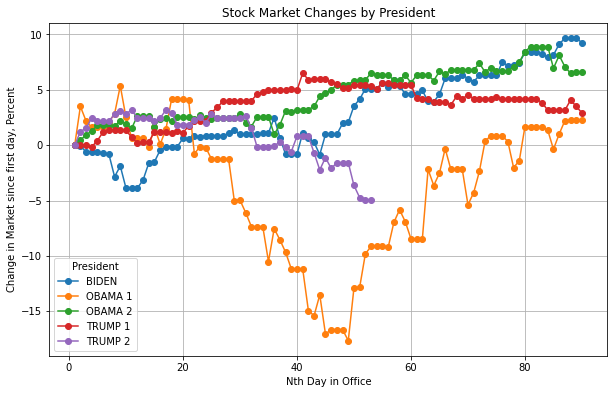
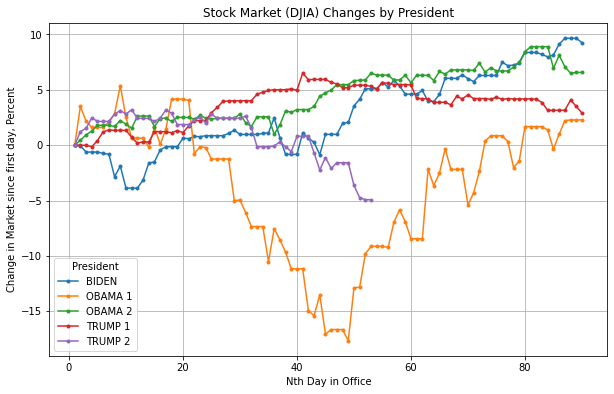
Add data for Obama's terms

diff --git a/djia/plots/djia-days-in-office.py b/djia/plots/djia-days-in-office.py
@@ -9,12 +9,12 @@ plt.figure(figsize=(10, 6))
 
 # Plot each president as a separate series
 for president, group in df.groupby("president"):
-    plt.plot(group["nth_day_in_office"], group["delta"], marker="o", linestyle="-", label=president)
+    plt.plot(group["nth_day_in_office"], group["delta"], marker=".", linestyle="-", label=president)
 
 # Formatting the plot
 plt.xlabel("Nth Day in Office")
 plt.ylabel("Change in Market since first day, Percent")
-plt.title("Stock Market Changes by President")
+plt.title("Stock Market (DJIA) Changes by President")
 plt.legend(title="President")
 plt.grid(True)
 
